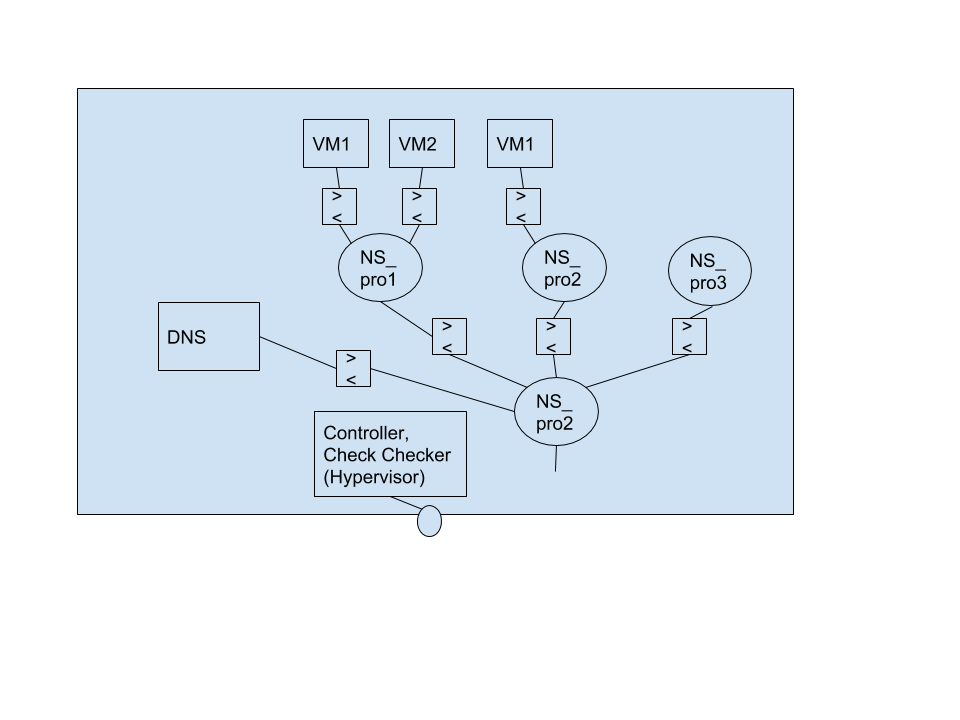
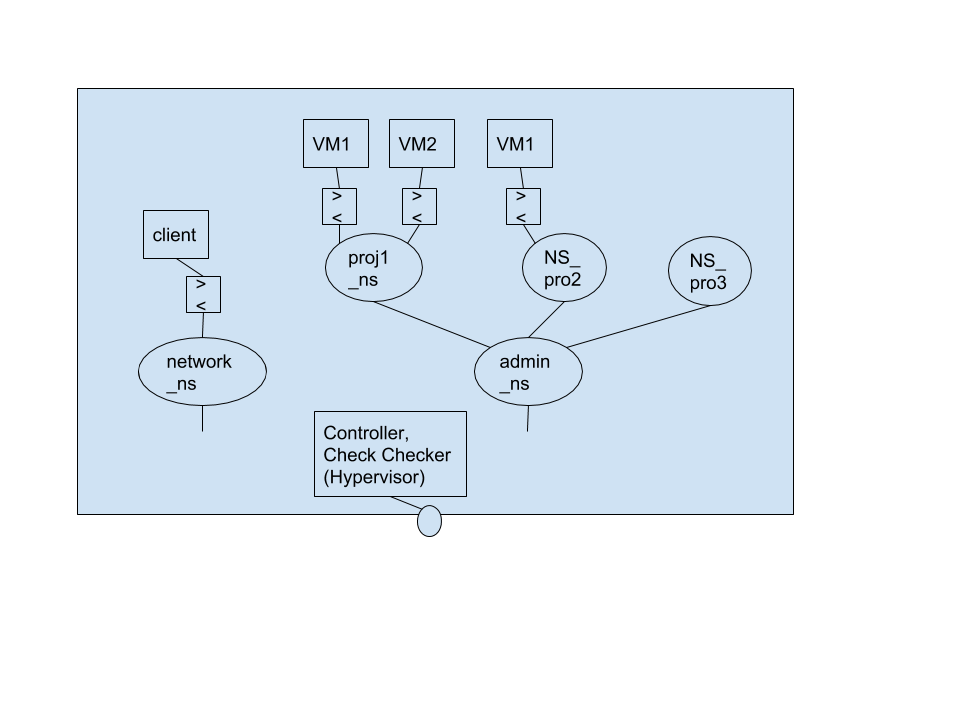
Add report

diff --git a/report.md b/report.md
@@ -1,9 +1,9 @@
 
-# CSC792 Linux Networking milestone 2
+# CSC792 Linux Networking
 
 Anran Zhou(azhou6@ncsu.edu) && Zecao Lu(zlu24@ncsu.edu)
 
-## 1) Project Description
+## 1. Introduction
 
 We choose the load balancing as a service as our project topic.
 
@@ -13,13 +13,13 @@ At a high level, load balancing is typically accomplished by having a load balan
 
 Load balancers were implemented by hardware devices in the past. With the advent of the cloud, we can see virtual load balancers are used to provide services to a pool of virtual servers. The function of virtual load balancers and physical load balancers are the same. But there are two major benefits of using virtual load balancers. The first is allowing users to provision load balancers on demand and in the case of metered clouds. The second is allowing users to pay for load balancing services on a utility basis.
 
-In this project, we plan to make VMs on the same or different Linux physical machines act as virtual load balancers to distribute loads on multiple target servers. These load balancers are VM migrated and can be configured automatically.
+In this project, we plan to make containers on the same or different Linux physical machines act as virtual load balancers to distribute loads on multiple target servers. These load balancers are container migrated and can be configured automatically.
 
-## 2) Related Work
+## 2. Related Work
 
 We investigated two popular products in the market. One is AWS Elastic Load Balancing. The other is Google Cloud Load Balancing.
 
-### 2a) AWS Elastic Load Balancing
+### 2.1 AWS Elastic Load Balancing
 
 There are three types of Load balancers provided by AWS which are **Application Load Balancer**, **Network Load Balancer** and **Classic Load Balancer**.
 
@@ -36,7 +36,7 @@ So the customers can select the appropriate load balancers based on their applic
 
   
 
-### 2b) Google Cloud Load Balancing
+### 2.2 Google Cloud Load Balancing
 
 Google Cloud Load Balancing provides 5 different load balancers. We can divide those five load balancers by three aspects: Area(Global/Regional), Scope(External/Internal) and Traffic Type. The following table provides some specifics about each load balancer:
 
@@ -62,9 +62,7 @@ The features of google load balancers are summarized as below:
 
 * Cloud CDN Integration improves the performance.
 
-  
-
-### 2c) Comparison
+### 2.3 Comparison
 
 AWS load balancers and Google Cloud Load Balancer both provide the feature of high availability, automatic scaling, internal load balancing, global load balancing and robust security, etc. But there are still some differences listed in the table below.
 
@@ -75,18 +73,146 @@ AWS load balancers and Google Cloud Load Balancer both provide the feature of hi
 |supported protocols|HTTP(s), TCP, SSL|HTTP(S), TCP/SSL, UDP and proxy| Google support more protocols when applying LB |
 |CDN|no use| Google cloud CDN| Google combined CDN with LB to improve performance.
 
-## 3) Feature Implementation
-The architecture is like the graph below:
+## 3. Project Description
 
-![](https://lh4.googleusercontent.com/G4m1p0z3RtYk0qYN4fX14ANtThk-s6-EMfhQiTSa5-NVnxJtZxnmFDbvhIKKpNxWeFDZZxzQwGcXDXsPC6mSCcPqGMo1DhVxTEIIK2Y2HWBk2sPHctxFHtrIeV1FEMvUbLiEfG7h)
+### 3.1 Detailed project goal
 
-### 3a) Functional Feature
-There are mainly four features of our LBaaS. 
--  HTTP/TCP level load balancing
--  Controller
+### 3.2 Proposed feature - functional and management
+
+#### 3.2.1 Functional Feature
+There are mainly two features of our LBaaS. 
+-  HTTP load balancing
 -  Health checker
--  (optional)Autoscaling
 
+When a user create a new project, there are the following steps:
+1.  Controller create a VM and get an IP
+2.  Configure LB functions on that VM
+3.  Health checker machine register that new VM
+4.  Register VM ip on DNS and get the URL
+5.  If this is a new project, Create a new namespace(subnet).
+6.  Return the URL to users
+
+We can realize health checker using collectd framework and we plan to design data structures to store the monitor logs.
+
+#### 3.2.2 Management Feature
+-  Performance & Scalability (remove)
+
+In order to ensure the performance of our load balancers, we should introduce the scale concept. We have some ansible and shell scripts to help administers to scale the load balancers.
+
+- Availability & Reliability
+
+In order to ensure the availability and reliability of our load balancer services, we set the health checker to monitor the actual servers' system status and the load balancers' status. 
+
+We have a workflow to deal with the crash of a load balancer in a project's subnet:
+1.  Health checker found it
+2.  Create a new VM and configure LB functions on it.
+3.  Renew the DNS information
+4.  If the older one still can't work for a threshold time period. Delete that one directly.
+5.  If the older one get healthy again, recycle the new allocated LB.
+
+### 3.3. Environmental constraints
+
+### 3.4. High-level deployment topology and description
+
+Our project architecture is shown as the figure below:
+
+![](./architecture.png)
+
+So basically it contains three parts:
+
+1. Hypervisor. In hypervisor there are 
+	- Server(controller).
+3. Load balancer network.
+	- administrator network namespace. 
+	- project network namespace.
+	- load balancer unit.
+1. Client side.
+	- network namespace and client docker
+
+## 4. Implementation architecture 
+Implementation detail (Northbound, southbound, and logic layer(for each function). Add information for two views: user guide and developer guide to your solution.
+
+## 5. Evaluation section
+
+## 6. Summary and future scope
+
+#### 3. User Interface & Configurability
+We provide two methods for users to do the configuration and control their VPCs. One is CLI written in Python, the other one is the web app.
+
+* CLI interfaces
+This interface is realized by calling a python script. Users can define the JSON formatted configuration files and then send them to the controller. Then the returned value are displayed on the terminal.
+
+* Web APP interfaces
+This interface is realized by a plugin module of Django. Users can access our webpages and input the configurations on the webpage and then send it to the controller. The returned value will be shown on the webpage.
+
+Here are some templates of user's input:
+```json
+{
+    "action": ["create"/"info"/"update"/"delete"],
+    "type": ["project"/"instance"],
+    "info": {
+        "name": "example"
+    }
+}
+```
+The template of returned value:
+```json
+{
+    "status": ["successful"/"fail"],
+    "action": "create",
+    "type": "project",
+    "info": {
+        "name": "example",
+        "id": 1,
+    }
+}
+```
+For project, instance and subnets, we have more specific configurations:
+* Project
+	```json
+	{
+	    "type": "project",
+	    "user": "john",
+	    "name": "john's project",
+	    "instances": [],
+	}
+	```
+
+* Instance
+	```json
+	{
+	    "type": "instance",
+	    "traffic_type": ["tcp"/"http"],
+	    "subnet": "1.1.1.0/24",
+	    "backend": {
+	        "entities": [
+	            ["ip"/"url"], ...
+	        ],
+	        "health-check": {},
+	        "auto-scaling": true,
+	    }
+	}
+	```
+
+* health check
+	check the status of backend servers:
+	```json
+	{
+	    "protocol": ["HTTP"/"TCP"],
+	    "port": 80,
+	    "request-path": "/",
+	    "criteria": {
+	        "interval": 5,
+	        "timeout": 5,
+	        "health-threshold": 2,
+	        "unhealth-threshold": 2
+	    }
+	}
+	```
+
+## appendix
+
+### Model
 The Interfaces of key components in this architecture are listed below using Python:
 * Controller
 	```Python
@@ -198,110 +324,3 @@ The Interfaces of key components in this architecture are listed below using Pyt
 	        """ attack to subnet
 			"""
 	```
-
-When a user create a new project, there are the following steps:
-1.  Controller create a VM and get an IP
-2.  Configure LB functions on that VM
-3.  Health checker machine register that new VM
-4.  Register VM ip on DNS and get the URL
-5.  If this is a new project, Create a new namespace(subnet).
-6.  Return the URL to users
-
-We can realize health checker using collectd framework and we plan to design data structures to store the monitor logs.
-
-Scaling can deal with the change of loads. When the loads keep increasing, the health checker will found it and the controller will allocate more VMs for that project. When the loads are going down, the controller will recycle additional VMs.
-
-### 3b) management feature
-#### 1. Performance & Scalability
-In order to ensure the performance of our load balancers, we should introduce the scale concept. We have some ansible and shell scripts to help administers to scale the load balancers.
-
-#### 2. Availability & Reliability
-In order to ensure the availability and reliability of our load balancer services, we set the health checker to monitor the actual servers' system status and the load balancers' status. 
-
-We have a workflow to deal with the crash of a load balancer in a project's subnet:
-1.  Health checker found it
-2.  Create a new VM and configure LB functions on it.
-3.  Renew the DNS information
-4.  If the older one still can't work for a threshold time period. Delete that one directly.
-5.  If the older one get healthy again, recycle the new allocated LB.
-
-#### 3. User Interface & Configurability
-We provide two methods for users to do the configuration and control their VPCs. One is CLI written in Python, the other one is the web app.
-
-* CLI interfaces
-This interface is realized by calling a python script. Users can define the JSON formatted configuration files and then send them to the controller. Then the returned value are displayed on the terminal.
-
-* Web APP interfaces
-This interface is realized by a plugin module of Django. Users can access our webpages and input the configurations on the webpage and then send it to the controller. The returned value will be shown on the webpage.
-
-Here are some templates of user's input:
-```json
-{
-    "action": ["create"/"info"/"update"/"delete"],
-    "type": ["project"/"instance"],
-    "info": {
-        "name": "example"
-    }
-}
-```
-The template of returned value:
-```json
-{
-    "status": ["successful"/"fail"],
-    "action": "create",
-    "type": "project",
-    "info": {
-        "name": "example",
-        "id": 1,
-    }
-}
-```
-For project, instance and subnets, we have more specific configurations:
-* Project
-	```json
-	{
-	    "type": "project",
-	    "user": "john",
-	    "name": "john's project",
-	    "instances": [],
-	}
-	```
-
-* Instance
-	```json
-	{
-	    "type": "instance",
-	    "traffic_type": ["tcp"/"http"],
-	    "subnet": "1.1.1.0/24",
-	    "backend": {
-	        "entities": [
-	            ["ip"/"url"], ...
-	        ],
-	        "health-check": {},
-	        "auto-scaling": true,
-	    }
-	}
-	```
-
-* health check
-	check the status of backend servers:
-	```json
-	{
-	    "protocol": ["HTTP"/"TCP"],
-	    "port": 80,
-	    "request-path": "/",
-	    "criteria": {
-	        "interval": 5,
-	        "timeout": 5,
-	        "health-threshold": 2,
-	        "unhealth-threshold": 2
-	    }
-	}
-	```
-	
-<!--stackedit_data:
-eyJoaXN0b3J5IjpbMTc0OTY2ODMxNiwxMjk5MzEyODk2LDE3MT
-ExNTc5NTIsLTE5OTQ3NjgxOTgsMTM4NTIwNTAwNiwtMTg4NDg4
-Njc0NywtMTQwODUzOTc5LDE2NDE1OTYyNDUsNzMwOTk4MTE2XX
-0=
--->
